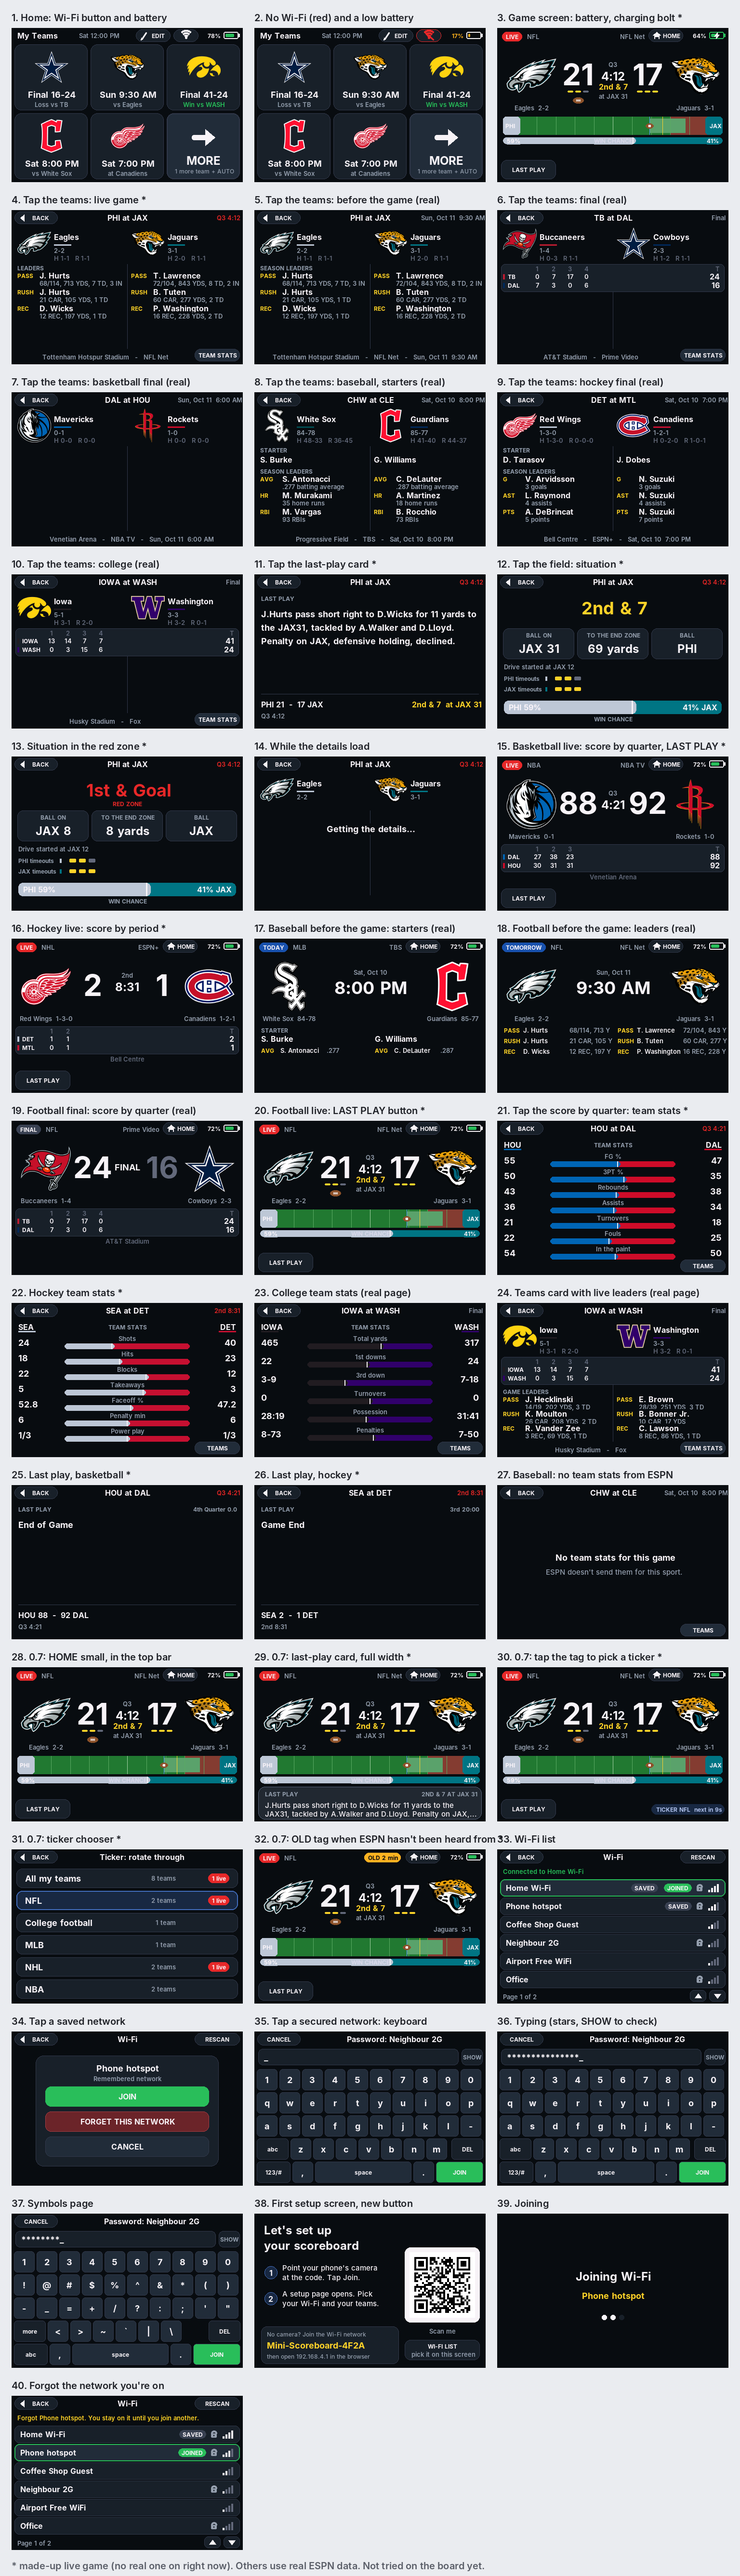
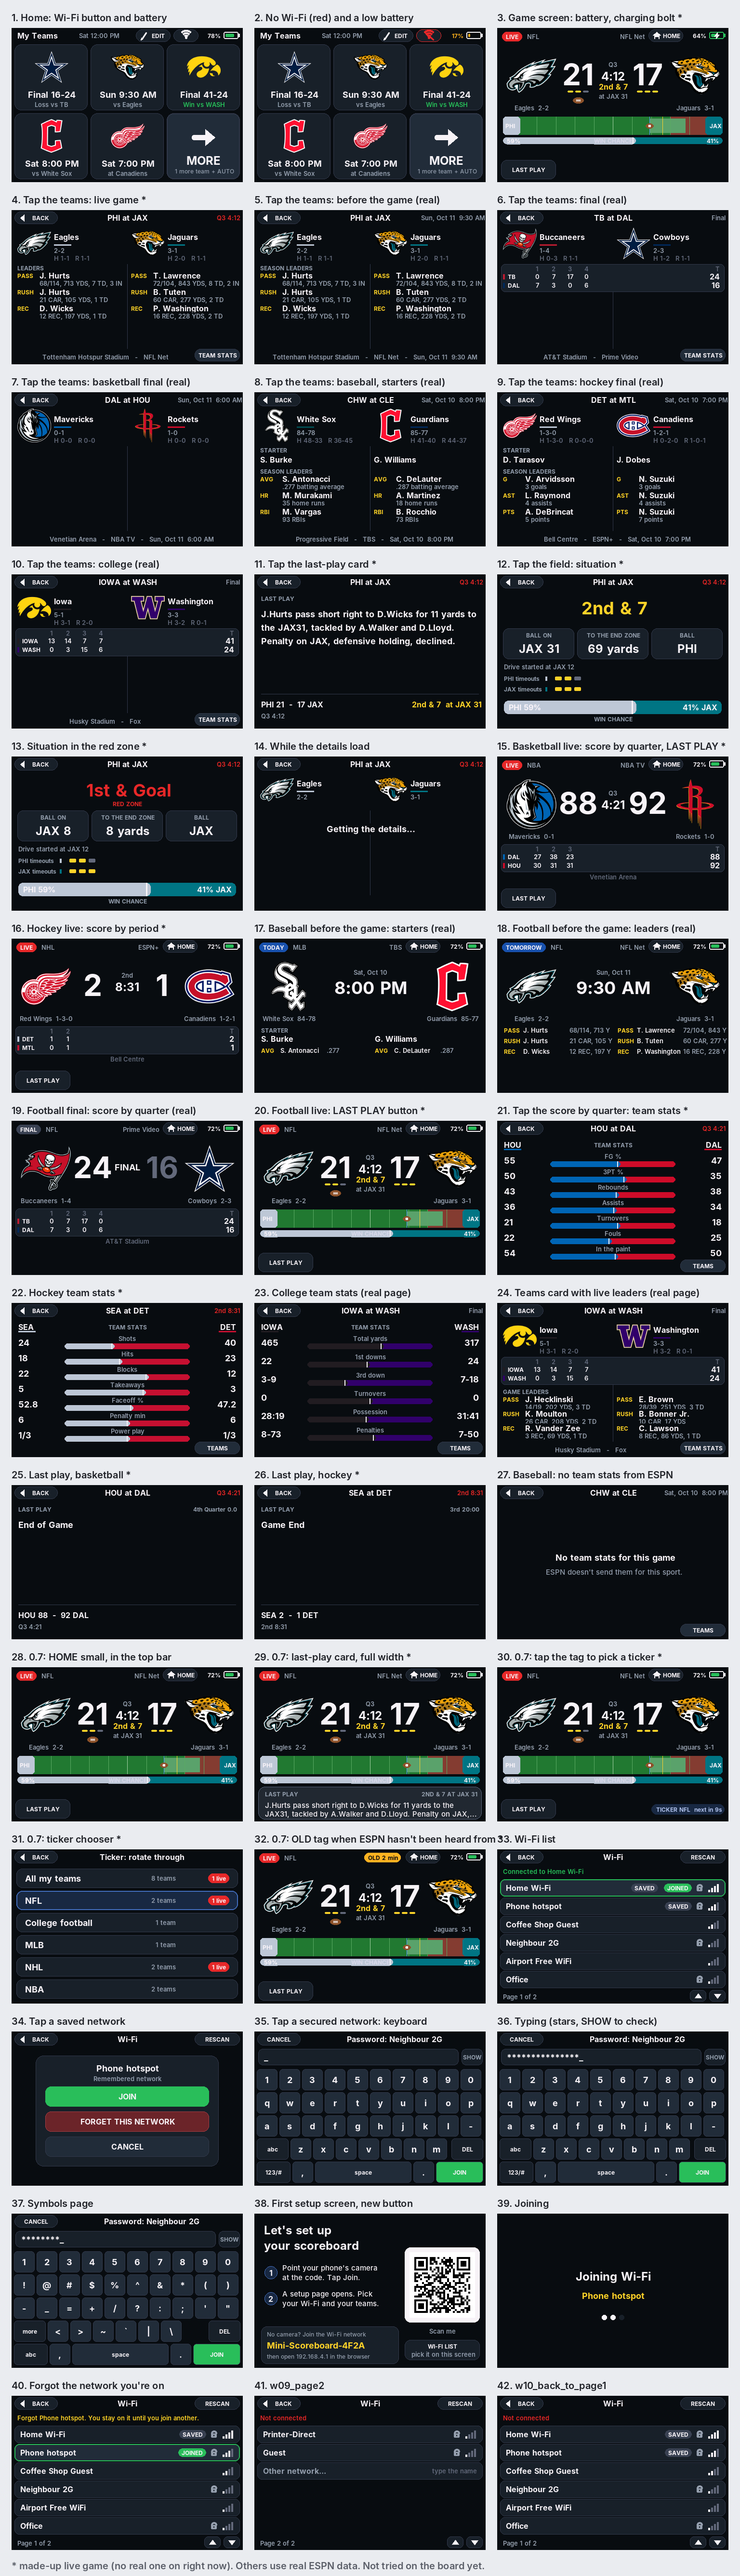
Design notes: Wi-Fi paging arrows, games page ideas; picture check of paging
Claude-Session: https://claude.ai/code/session_01USjeHuzjaydVaH1yo4ZQ5P

Changed region(s): [[0.3438, 0.9059, 1.0, 0.9996]]

diff --git a/firmware/hosttest/render_new.cpp b/firmware/hosttest/render_new.cpp
@@ -234,6 +234,9 @@ int main() {
   fakeMs = 1000;
   WiFi.st = WL_DISCONNECTED;
   uiJoining("Phone hotspot"); save("w07_joining");
+  // paging: down, then up (Joe saw the up arrow not working)
+  WiFi.joined = "Home Wi-Fi";
+  wifiStart(); wifiLoop(); wifiTap(455, 302); save("w09_page2"); wifiTap(417, 302); save("w10_back_to_page1");
   // joined and saved at once, and the note after forgetting the one you're on
   settings.nets[0] = {"Home Wi-Fi", "x"}; settings.nets[1] = {"Phone hotspot", "x"}; settings.nnets = 2;
   WiFi.joined = "Phone hotspot"; WiFi.st = WL_CONNECTED;

diff --git a/design/DESIGN.md b/design/DESIGN.md
@@ -317,3 +317,14 @@ the game's own play list (the scoreboard feed's lastPlay lags during stoppages).
   but compressed downloads were only asked for with more than 110 KB, so they
   never switched on. Reserve the 44 KB before connecting (and retry plain if
   the connection then fails), and never read the big game page uncompressed.
+- Wi-Fi list paging: on the board the down arrow works but the up arrow does
+  not (the host picture program pages down and up fine with the same code), so
+  it is probably touch accuracy in the bottom-right corner: make both arrows
+  bigger and higher, and widen their hit zones. Swiping works as well.
+- Games page (idea, Oct 10): a GAMES tile as the last page after the favourites.
+  Small games that draw straight to the screen (no big buffers; the heap is
+  about 160 KB with a 70 KB biggest block): memory match with the team logos
+  already stored, snake, 2048, connect four against the board, sports trivia,
+  a penalty-kick or free-throw flick, a reaction test. With the stylus: a
+  drawing pad, minesweeper, sudoku, battleship. High scores kept in the board's
+  settings. Sounds when the speaker is in.
